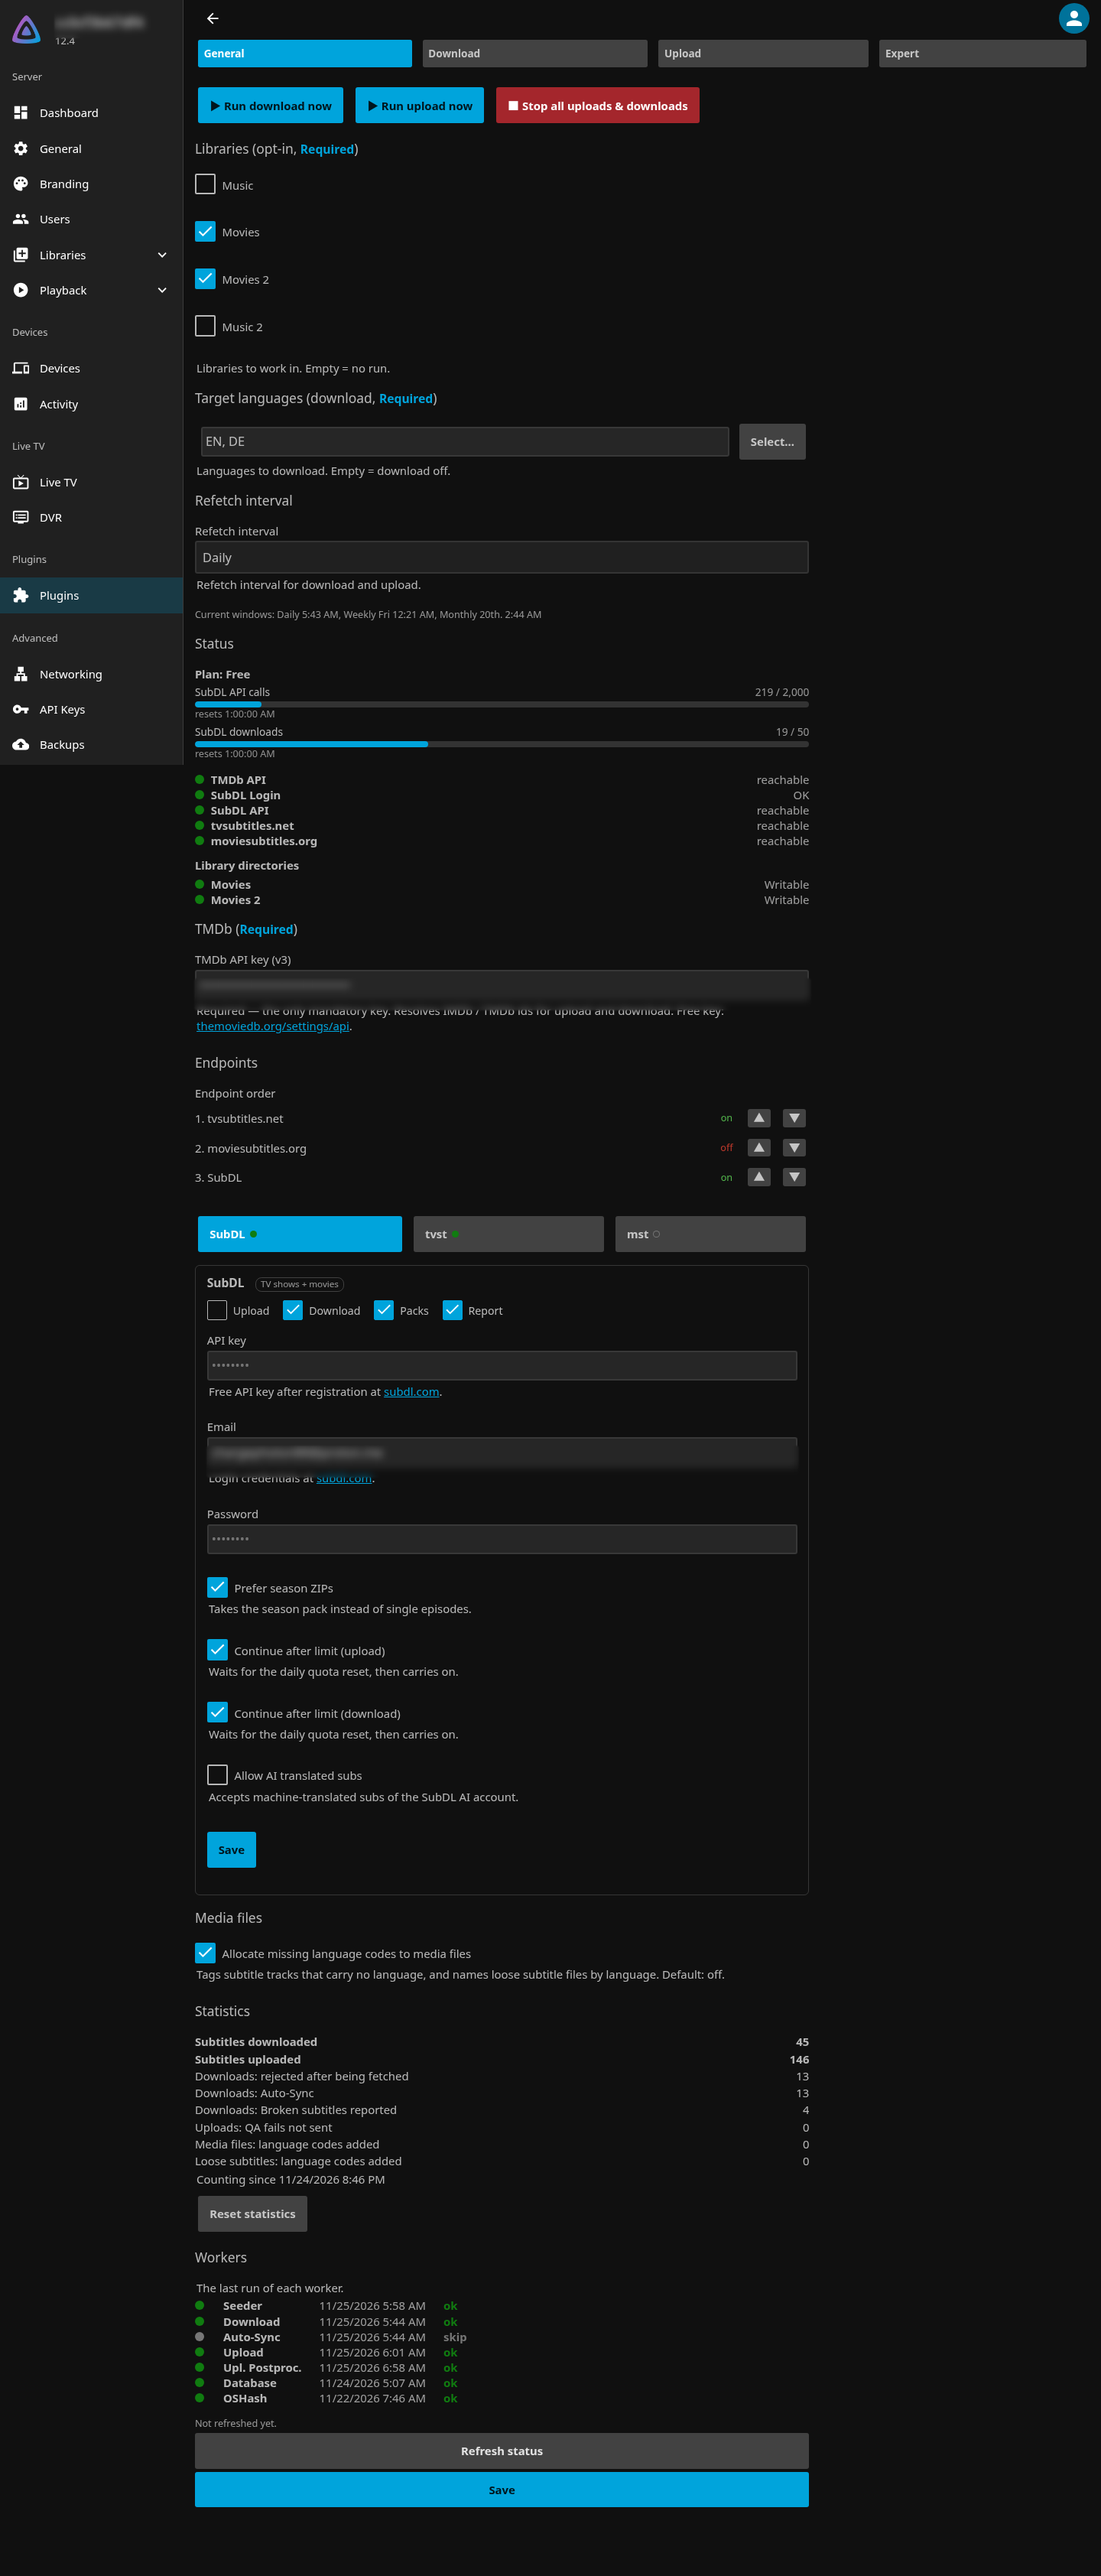
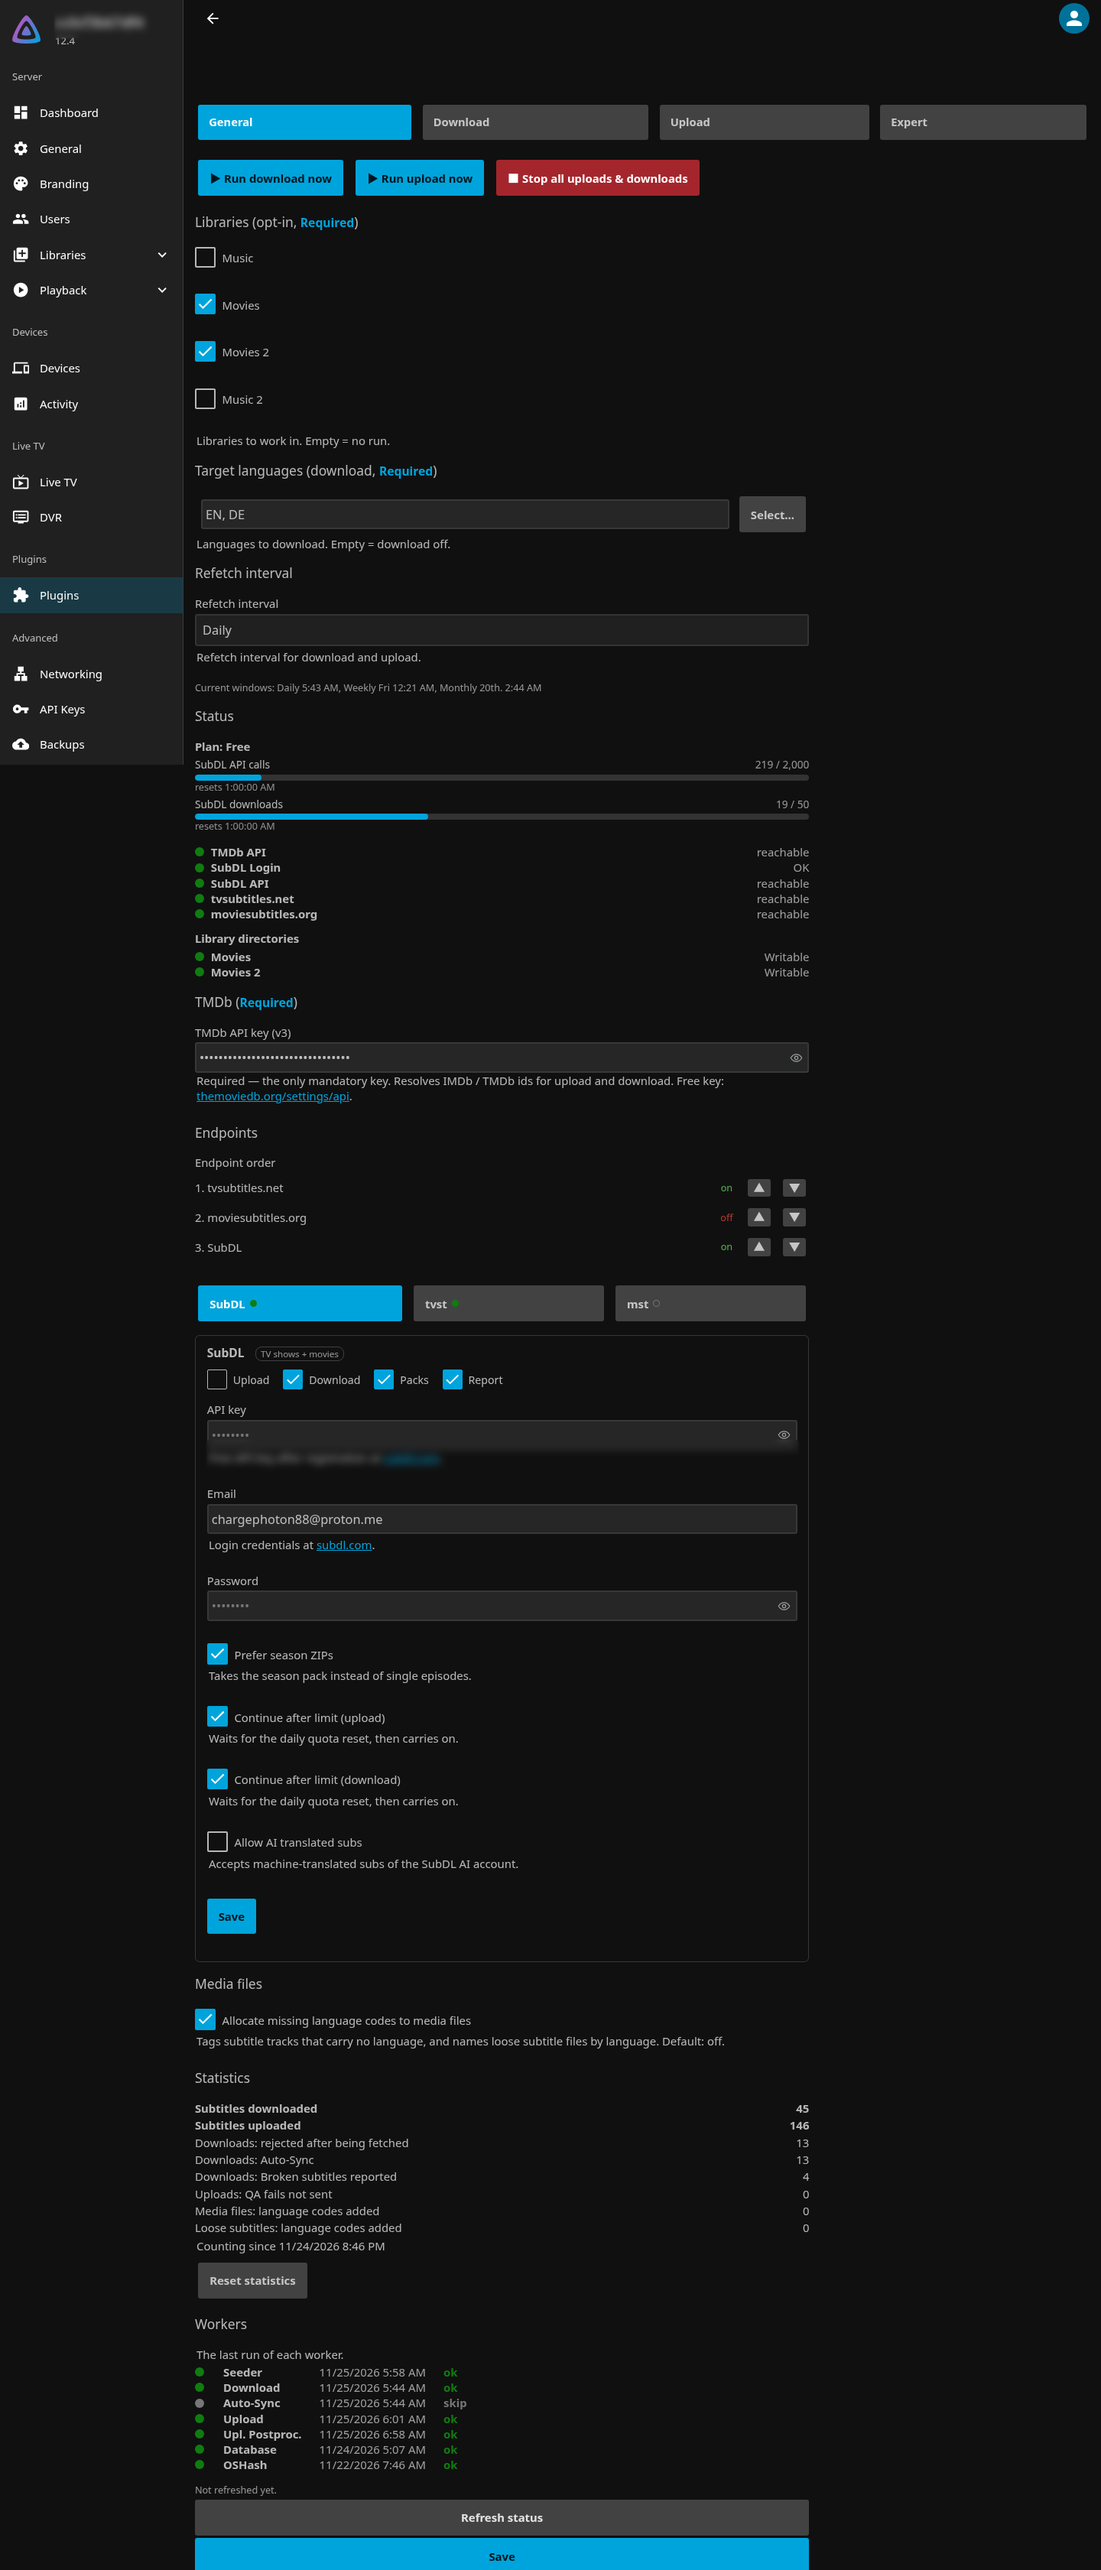
docs: README-Bilder zur 12.3.8.55
Neu aufgenommen auf prod mit einem temporären Aufnahme-Konto: drei Ganzseiten bei 1440 px
(General 3361, Download 1145, Upload 1000 px). Die Upload-Schalter aller drei Quellen sind
ausgetickt, ohne zu speichern — der Endpunkt meldet weiter uploadEnabled=true, die Bilder zeigen
also nur den Zustand.

Verwischt über Rechtecke aus dem DOM mit weicher Maske (Gauß r=5, Rand 1 px): Server-ID oben links
und der Email-Kasten der SubDL-Karte. Die beiden Geheimfelder brauchen keine Verwischung mehr — sie
tragen seit F-M748 ein Punktmuster und ein Auge, im Bild also Punkte statt Wert.

Bildverweise im README auf ?v=12.3.8.55 gezogen.

diff --git a/README.md b/README.md
@@ -21,16 +21,16 @@ in and one card per source (direction switches, what it serves, credentials), th
 last run of every worker. The e-mail address in the SubDL card is blurred; the plugin keeps it in the
 source's own file:
 
-![The Sub Scribe settings page](docs/images/config-general.png?v=12.3.8.52)
+![The Sub Scribe settings page](docs/images/config-general.png?v=12.3.8.55)
 
 **Download** — what gets fetched, when a run happens, and the quality gates a subtitle has to pass
 before it is saved:
 
-![Download settings](docs/images/config-download.png?v=12.3.8.52)
+![Download settings](docs/images/config-download.png?v=12.3.8.55)
 
 **Upload** — off by default; the same shape as the download side, with its own gates:
 
-![Upload settings](docs/images/config-upload.png?v=12.3.8.52)
+![Upload settings](docs/images/config-upload.png?v=12.3.8.55)
 
 ## Requirements
 
